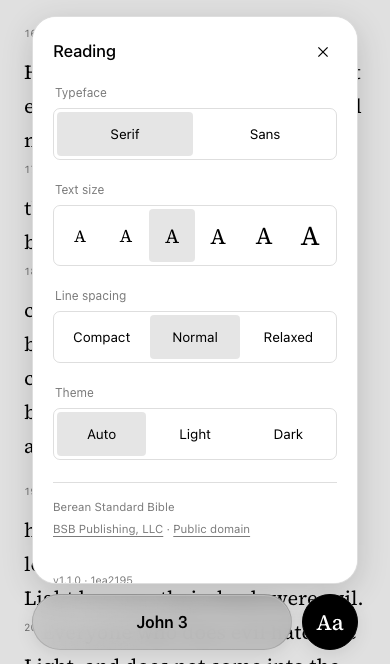
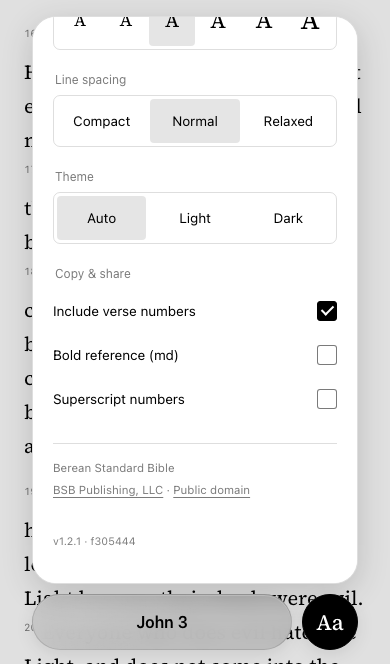
feat: add copy and share formatting settings

diff --git a/tests/e2e/export-format.spec.ts b/tests/e2e/export-format.spec.ts
@@ -1,0 +1,66 @@
+import { test, expect } from '@playwright/test'
+import { settled, verseTop } from './helpers'
+
+test('format preferences persist without moving the reader and retain disabled superscripts', async ({ page }) => {
+	await page.goto('/John/3/16?version=BSB')
+	await settled(page)
+	const top = await verseTop(page, 'jhn.3.16')
+	await page.getByRole('button', { name: 'Reader settings', exact: true }).click()
+	await expect(page.getByRole('checkbox', { name: 'Include verse numbers', exact: true })).toBeChecked()
+	await expect(page.getByRole('checkbox', { name: 'Bold reference (md)', exact: true })).not.toBeChecked()
+	await expect(page.getByRole('checkbox', { name: 'Superscript numbers', exact: true })).not.toBeChecked()
+	await page.getByRole('checkbox', { name: 'Bold reference (md)', exact: true }).check()
+	await page.getByRole('checkbox', { name: 'Superscript numbers', exact: true }).check()
+	await page.getByRole('checkbox', { name: 'Include verse numbers', exact: true }).uncheck()
+	await expect(page.getByRole('checkbox', { name: 'Superscript numbers', exact: true })).toBeDisabled()
+	await expect(page.getByRole('checkbox', { name: 'Superscript numbers', exact: true })).toBeChecked()
+	await page.getByRole('button', { name: 'Close settings' }).click()
+	expect(await verseTop(page, 'jhn.3.16')).toBeCloseTo(top, 0)
+	await page.reload()
+	await settled(page)
+	await page.getByRole('button', { name: 'Reader settings', exact: true }).click()
+	await expect(page.getByRole('checkbox', { name: 'Include verse numbers', exact: true })).not.toBeChecked()
+	await expect(page.getByRole('checkbox', { name: 'Bold reference (md)', exact: true })).toBeChecked()
+	await expect(page.getByRole('checkbox', { name: 'Superscript numbers', exact: true })).toBeDisabled()
+	await expect(page.getByRole('checkbox', { name: 'Superscript numbers', exact: true })).toBeChecked()
+	await page.getByRole('checkbox', { name: 'Include verse numbers', exact: true }).check()
+	await expect(page.getByRole('checkbox', { name: 'Superscript numbers', exact: true })).toBeEnabled()
+	await expect(page.getByRole('checkbox', { name: 'Superscript numbers', exact: true })).toBeChecked()
+})
+
+for (const action of ['Copy', 'keyboard', 'native share', 'unavailable share', 'failed share'] as const) {
+	for (const includeVerseNumbers of [true, false]) {
+		test(`${action} uses formatting with verse numbers ${includeVerseNumbers ? 'on' : 'off'}`, async ({ page }) => {
+			await page.addInitScript(({ action, includeVerseNumbers }) => {
+				localStorage.setItem('bible-settings', JSON.stringify({ includeVerseNumbers, boldReference: true, superscriptNumbers: true }))
+				const state = window as unknown as { exported?: string; shared?: string }
+				Object.defineProperty(navigator, 'clipboard', { configurable: true, value: { writeText: async (text: string) => { state.exported = text } } })
+				Object.defineProperty(navigator, 'share', { configurable: true, value: action === 'unavailable share' ? undefined : async (data: ShareData) => {
+					state.shared = data.text
+					if (action === 'failed share') throw new DOMException('Share failed', 'NotAllowedError')
+					state.exported = data.text
+				} })
+			}, { action, includeVerseNumbers })
+			await page.goto('/John/3/16?version=BSB')
+			await settled(page)
+			for (const verse of [18, 16]) await page.locator(`[data-verse="jhn.3.${verse}"]`).first().click()
+			if (action === 'keyboard') await page.keyboard.press('Control+c')
+			else await page.getByRole('button', { name: action === 'Copy' ? 'Copy' : 'Share', exact: true }).click()
+			await expect(page.locator('.copy-confirmation')).toHaveText(action === 'native share' ? 'Shared' : 'Copied')
+			await expect(page.locator('.selected')).toHaveCount(0)
+			const state = await page.evaluate(() => {
+				const { exported, shared } = window as unknown as { exported: string; shared?: string }
+				return { exported, shared }
+			})
+			expect(state.exported).toMatch(/^For God so loved/)
+			expect(state.exported).toContain(' **John 3:16, 18 BSB**')
+			expect(state.exported.includes('¹⁸ Whoever believes')).toBe(includeVerseNumbers)
+			expect(state.exported).not.toContain('18 Whoever believes')
+			if (action.includes('share')) {
+				expect(state.exported.split('\n')).toHaveLength(2)
+				expect(state.exported.split('\n')[1]).toBe(new URL('/John/3/16,18?version=BSB', page.url()).href)
+				if (action === 'failed share') expect(state.exported).toBe(state.shared)
+			} else expect(state.exported).not.toContain('\n')
+		})
+	}
+}

diff --git a/tests/unit/semantics.test.ts b/tests/unit/semantics.test.ts
@@ -3,7 +3,7 @@ import { describe, expect, it, vi } from 'vitest'
 import { mount } from '@vue/test-utils'
 import { normalizeChapter, inlineText } from '../../src/lib/normalize'
 import { copyText } from '../../src/lib/clipboard'
-import { parseReference } from '../../src/lib/references'
+import { formatReferences, parseReference } from '../../src/lib/references'
 import ScriptureChapter from '../../src/components/ScriptureChapter.vue'
 import ReaderSettings from '../../src/components/ReaderSettings.vue'
 import type { BibleBook } from '../../src/lib/types'
@@ -112,6 +112,66 @@ describe('plain-text Scripture copying', () => {
 		const text = copyText(parseReference('Gen1:26-28')!.verses, [c])
 		expect(text.match(/27 /g)).toHaveLength(1)
 		expect(text).not.toContain('Cited in Matthew')
+	})
+})
+describe('Copy and Share formatting', () => {
+	const formats = [true, false].flatMap((includeVerseNumbers) =>
+		[true, false].flatMap((boldReference) =>
+			[true, false].map((superscriptNumbers) => ({ includeVerseNumbers, boldReference, superscriptNumbers })),
+		),
+	)
+	it.each(formats)('formats skipped verses with %j', (format) => {
+		const refs = parseReference('John3:19,16,18')!.verses
+		const text = copyText(refs, [chapter], format)
+		expect(text).toMatch(/^For God so loved/)
+		const prefix = format.superscriptNumbers ? '¹⁸' : '18'
+		expect(text.includes(`${prefix} Whoever believes`)).toBe(format.includeVerseNumbers)
+		expect(text).not.toContain('16 For God')
+		expect(text).not.toContain('¹⁶ For God')
+		expect(text.endsWith(format.boldReference ? '**John 3:16, 18–19 BSB**' : 'John 3:16, 18–19 BSB')).toBe(true)
+		expect(text.includes('**')).toBe(format.boldReference)
+		if (!format.includeVerseNumbers) expect(text.slice(0, text.indexOf('John 3:'))).not.toMatch(/[0-9⁰¹²³⁴⁵⁶⁷⁸⁹]/)
+		expect(text).not.toMatch(/\n|God’s Love for the World/)
+	})
+	it.each([
+		'John3:16', 'Genesis1:26-28', 'Psalm23:1-6',
+		'John3:36-4:2', 'John21:25;Acts1:1-2', 'Psalm119:99-101',
+	])('preserves semantic prose and references for %s', (reference) => {
+		const refs = parseReference(reference)!.verses
+		const chapters = [...new Map(refs.map((r) => [`${r.book}.${r.chapter}`, book(r.book).chapters[r.chapter - 1]!])).values()]
+		const unnumbered = copyText(refs, chapters, { includeVerseNumbers: false, boldReference: false, superscriptNumbers: false })
+		const text = copyText(refs, chapters, { includeVerseNumbers: true, boldReference: true, superscriptNumbers: true })
+		const label = `${formatReferences(refs)} BSB`
+		const prose = text.slice(0, -` **${label}**`.length)
+		expect(prose.replace(/[⁰¹²³⁴⁵⁶⁷⁸⁹]+ /g, '')).toBe(unnumbered.slice(0, -` ${label}`.length))
+		expect(prose.match(/[⁰¹²³⁴⁵⁶⁷⁸⁹]+ /g) ?? []).toHaveLength(refs.length - 1)
+		expect(text).toContain(`**${label}**`)
+		expect(text).not.toMatch(/\n|Cited in Matthew|A Psalm of David/)
+		if (reference === 'Psalm119:99-101') {
+			expect(text).toContain('¹⁰⁰ ')
+			expect(text).toContain('¹⁰¹ ')
+		}
+	})
+	it('updates accessible formatting checkboxes and retains disabled superscripts', async () => {
+		vi.stubGlobal('__APP_VERSION__', '0.1.0')
+		vi.stubGlobal('__BUILD_SHA__', 'test')
+		const w = mount(ReaderSettings, { props: { modelValue: { ...defaults } } })
+		for (const [label, key] of [
+			['Include verse numbers', 'includeVerseNumbers'],
+			['Bold reference (md)', 'boldReference'],
+			['Superscript numbers', 'superscriptNumbers'],
+		] as const) {
+			const checkbox = w.findAll('label').find((row) => row.text() === label)!.find('input')
+			await checkbox.setValue(!defaults[key])
+			expect(w.emitted('update:modelValue')!.at(-1)![0]).toEqual({ ...defaults, [key]: !defaults[key] })
+		}
+		await w.setProps({ modelValue: { ...defaults, includeVerseNumbers: false, superscriptNumbers: true } })
+		const superscript = w.findAll('label').find((row) => row.text() === 'Superscript numbers')!.find('input')
+		expect(superscript.attributes('disabled')).toBeDefined()
+		expect((superscript.element as HTMLInputElement).checked).toBe(true)
+		await w.setProps({ modelValue: { ...defaults, superscriptNumbers: true } })
+		expect(superscript.attributes('disabled')).toBeUndefined()
+		expect((superscript.element as HTMLInputElement).checked).toBe(true)
 	})
 })
 describe('semantic Scripture rendering', () => {

diff --git a/src/lib/clipboard.ts b/src/lib/clipboard.ts
@@ -1,9 +1,14 @@
 import { inlineText } from './normalize'
 import { formatReferences, ordered, verseId } from './references'
-import type { Chapter, VerseRef } from './types'
+import type { Chapter, CopyFormat, VerseRef } from './types'
 export function copyText(
 	refs: VerseRef[],
 	chapters: Chapter[],
+	format: CopyFormat = {
+		includeVerseNumbers: true,
+		boldReference: false,
+		superscriptNumbers: false,
+	},
 ): string {
 	const selection = ordered(refs)
 	const ids = new Set(selection.map(verseId))
@@ -16,8 +21,12 @@ export function copyText(
 			const body = block.fragments
 				.filter((f) => ids.has(f.id))
 				.map((f) => {
-					const prefix =
-						f.id === first || numbered.has(f.id) ? '' : `${f.id.split('.')[2]} `
+					const number = f.id.split('.')[2]!
+					const digits = format.superscriptNumbers
+						? number.replace(/\d/g, (digit) => '⁰¹²³⁴⁵⁶⁷⁸⁹'[Number(digit)]!)
+						: number
+					const prefix = !format.includeVerseNumbers || f.id === first || numbered.has(f.id)
+						? '' : `${digits} `
 					numbered.add(f.id)
 					return prefix + inlineText(f.nodes).trim()
 				})
@@ -27,10 +36,6 @@ export function copyText(
 		}
 	}
 
-	return (
-		parts.join(' ').replace(/\s+/g, ' ') +
-		' ' +
-		formatReferences(selection) +
-		' BSB'
-	)
+	const reference = `${formatReferences(selection)} BSB`
+	return `${parts.join(' ').replace(/\s+/g, ' ')} ${format.boldReference ? `**${reference}**` : reference}`
 }

diff --git a/src/lib/persistence.ts b/src/lib/persistence.ts
@@ -1,6 +1,6 @@
 import { fromId, verseId } from './references'
-import type { Anchor } from './types'
-export interface Settings {
+import type { Anchor, CopyFormat } from './types'
+export interface Settings extends CopyFormat {
 	font: 'serif' | 'sans'
 	size: number
 	spacing: 'compact' | 'normal' | 'relaxed'
@@ -11,6 +11,9 @@ export const defaults: Settings = {
 	size: 20,
 	spacing: 'normal',
 	theme: 'auto',
+	includeVerseNumbers: true,
+	boldReference: false,
+	superscriptNumbers: false,
 }
 export function readJson(key: string): unknown {
 	try {
@@ -29,6 +32,12 @@ export function writeJson(key: string, value: unknown) {
 export function readSettings(): Settings {
 	const value = readJson('bible-settings') as Partial<Settings> | null
 	return {
+		includeVerseNumbers: typeof value?.includeVerseNumbers === 'boolean'
+			? value.includeVerseNumbers : defaults.includeVerseNumbers,
+		boldReference: typeof value?.boldReference === 'boolean'
+			? value.boldReference : defaults.boldReference,
+		superscriptNumbers: typeof value?.superscriptNumbers === 'boolean'
+			? value.superscriptNumbers : defaults.superscriptNumbers,
 		font: value?.font === 'sans' ? 'sans' : 'serif',
 		size: [17, 18, 20, 22, 24, 27].includes(value?.size ?? 0)
 			? value!.size!

diff --git a/src/components/ReaderSettings.vue b/src/components/ReaderSettings.vue
@@ -89,6 +89,34 @@ async function updateVersion() {
 				</button>
 			</div>
 		</fieldset>
+		<fieldset class="export-settings">
+			<legend>Copy &amp; share</legend>
+			<label>
+				<span>Include verse numbers</span>
+				<input
+					type="checkbox"
+					:checked="modelValue.includeVerseNumbers"
+					@change="update('includeVerseNumbers', ($event.target as HTMLInputElement).checked)"
+				/>
+			</label>
+			<label>
+				<span>Bold reference (md)</span>
+				<input
+					type="checkbox"
+					:checked="modelValue.boldReference"
+					@change="update('boldReference', ($event.target as HTMLInputElement).checked)"
+				/>
+			</label>
+			<label :class="{ 'export-disabled': !modelValue.includeVerseNumbers }">
+				<span>Superscript numbers</span>
+				<input
+					type="checkbox"
+					:checked="modelValue.superscriptNumbers"
+					:disabled="!modelValue.includeVerseNumbers"
+					@change="update('superscriptNumbers', ($event.target as HTMLInputElement).checked)"
+				/>
+			</label>
+		</fieldset>
 		<div class="attribution">
 			<p>{{ translation.name }}</p>
 			<a :href="translation.attributionUrl" target="_blank" rel="noreferrer">{{

diff --git a/tests/unit/storage.test.ts b/tests/unit/storage.test.ts
@@ -85,6 +85,7 @@ describe('small defensive local persistence', () => {
 			theme: 'dark',
 		})
 		expect(readSettings()).toEqual({
+			...defaults,
 			size: 24,
 			font: 'sans',
 			spacing: 'normal',
@@ -94,6 +95,16 @@ describe('small defensive local persistence', () => {
 	it.each(['compact', 'normal', 'relaxed'] as const)('preserves saved %s spacing', (spacing) => {
 		writeJson('bible-settings', { spacing })
 		expect(readSettings().spacing).toBe(spacing)
+	})
+	it.each(['includeVerseNumbers', 'boldReference', 'superscriptNumbers'] as const)('validates and persists %s as a boolean', (key) => {
+		for (const value of [true, false]) {
+			writeJson('bible-settings', { [key]: value })
+			expect(readSettings()[key]).toBe(value)
+		}
+		for (const value of ['true', 'false', 0, 1, null, [], {}]) {
+			writeJson('bible-settings', { [key]: value })
+			expect(readSettings()[key]).toBe(defaults[key])
+		}
 	})
 	it('validates and clamps semantic reading anchors', () => {
 		const a = {

diff --git a/src/style.css b/src/style.css
@@ -509,6 +509,44 @@ a {
 .sizes button {
 	font-family: 'Source Serif 4', Georgia, serif;
 }
+.export-settings label {
+	display: flex;
+	align-items: center;
+	justify-content: space-between;
+	gap: 12px;
+	min-height: 44px;
+	font-size: 0.85rem;
+	cursor: pointer;
+}
+.export-settings input {
+	appearance: none;
+	border: 1px solid var(--muted);
+	border-radius: 3px;
+	background: var(--background);
+	min-width: 20px;
+	width: 20px;
+	height: 20px;
+	margin: 0;
+	cursor: inherit;
+}
+.export-settings input:checked {
+	background: var(--foreground);
+	border-color: var(--foreground);
+}
+.export-settings input:checked::after {
+	content: '';
+	display: block;
+	width: 5px;
+	height: 10px;
+	margin: 1px auto 0;
+	border: solid var(--background);
+	border-width: 0 2px 2px 0;
+	transform: rotate(45deg);
+}
+.export-settings .export-disabled {
+	opacity: 0.4;
+	cursor: default;
+}
 .attribution {
 	font-size: 0.72rem;
 	line-height: 1.7;

diff --git a/scripts/screenshots.spec.ts b/scripts/screenshots.spec.ts
@@ -30,5 +30,6 @@ test('capture README screenshots', async ({ page }, testInfo) => {
 	await jump(page, 'John 3:16')
 	await page.getByRole('button', { name: 'Reader settings', exact: true }).click()
 	await expect(page.getByRole('dialog', { name: 'Reader settings' })).toBeVisible()
+	await page.getByRole('checkbox', { name: 'Superscript numbers', exact: true }).scrollIntoViewIfNeeded()
 	await capture('settings')
 })

diff --git a/tests/e2e/visual.spec.ts b/tests/e2e/visual.spec.ts
@@ -34,4 +34,6 @@ test('canonical dialog visual states', async ({ page }) => {
 		.getByRole('button', { name: 'Reader settings', exact: true })
 		.click()
 	await expect(page).toHaveScreenshot('settings-amoled.png')
+	await page.getByRole('checkbox', { name: 'Superscript numbers', exact: true }).scrollIntoViewIfNeeded()
+	await expect(page).toHaveScreenshot('copy-share-settings-amoled.png')
 })

diff --git a/src/App.vue b/src/App.vue
@@ -185,7 +185,7 @@ async function selectionText() {
 	const data = await Promise.all(
 		groups.map((r) => repository.chapter(r.book, r.chapter)),
 	)
-	return { text: copyText(refs, data), refs }
+	return { text: copyText(refs, data, settings.value), refs }
 }
 async function copy(share = false) {
 	copyError.value = ''

diff --git a/src/lib/types.ts b/src/lib/types.ts
@@ -1,4 +1,9 @@
 export const FORMAT = 1
+export interface CopyFormat {
+	includeVerseNumbers: boolean
+	boldReference: boolean
+	superscriptNumbers: boolean
+}
 export interface VerseRef {
 	book: string
 	chapter: number

diff --git a/docs/PRODUCT_SPEC.md b/docs/PRODUCT_SPEC.md
@@ -44,7 +44,8 @@
 
 - A short stationary tap toggles an entire semantic verse. Noncontiguous selection persists during scrolling; clearing the final verse exits. Explicit navigation clears it.
 - Long presses, native word selection, and drags do not trigger verse selection. Selected fragments use a visible 2px dotted underline with no background fill.
-- Copy is plain text in canonical order. First selected verse has no number; subsequent verses have inline numbers once per semantic verse. Join all selected text into one paragraph, flatten poetry, exclude headings/notes, then a space and compressed reference/version on the same line.
+- Copy exports text in canonical order. First selected verse has no number; subsequent verses have inline numbers once per semantic verse. Join all selected text into one paragraph, flatten poetry, exclude headings/notes, then a space and compressed reference/version on the same line.
+- Shared Copy/Share formatting preferences default to including inline verse numbers, with bold reference and superscript numbers off. The first selected verse is always unnumbered, including single-verse selections. Disabling verse numbers omits all inline number prefixes. Superscript numbers uses Unicode digits only for those prefixes; it is disabled while verse numbers are off and retains its preference. Bold reference (md) wraps the complete trailing reference and BSB in `**…**`, leaving Scripture and the share URL outside. These options apply equally to Copy, Ctrl+C/Cmd+C, native Share, and share fallback copying. No destination detection or app-specific formatting.
 - Successful Copy (including Ctrl+C/Cmd+C) clears all selected verse fragments, restores the normal bottom bar without moving the reader, and shows a separate brief “Copied” status above it with a light green background and dark green text in both themes. Failed copying preserves selection for retry.
 - Desktop selection shows a small Ctrl+C hint (⌘C on Mac) just below the Copy pill. Touch/mobile layouts hide the hint.
 - Share includes complete selected Scripture, the reference/version at the end of the same line, and a selection deep link on its own next line. The same complete text payload is passed to Web Share or copied when sharing is unavailable or fails. Successful sharing or fallback copying clears selection and restores the normal bottom bar without moving the reader, showing a separate brief green “Shared” or “Copied” status. Cancellation or failed fallback copying preserves selection; a cancelled share does not copy.
@@ -54,7 +55,7 @@
 
 Reading settings open in a compact floating modal 10px above the reference/Aa pills, with a short entrance from the Aa side. Both bottom pills remain visible. Aa shows a selected state and toggles the modal closed on another tap; it remains part of modal keyboard navigation. The modal scrolls within the available height on short screens and respects reduced motion.
 
-Serif/Sans, discrete text sizes, Compact/Normal/Relaxed spacing, Auto/Light/Dark theme, attribution, and build information. Translation controls and the extra fetch(bible) source-credit line do not appear in Reading settings. Light is exact white/black; AMOLED is exact black/white on Scripture and solid reader surfaces. The floating glass controls and transient green Copy/Share confirmation are exceptions. Settings persist locally. No About screen or install banner.
+Serif/Sans, discrete text sizes, Compact/Normal/Relaxed spacing, Auto/Light/Dark theme, a Copy & share section with Include verse numbers, Bold reference (md), and Superscript numbers checkboxes, attribution, and build information. Translation controls and the extra fetch(bible) source-credit line do not appear in Reading settings. Light is exact white/black; AMOLED is exact black/white on Scripture and solid reader surfaces. The floating glass controls and transient green Copy/Share confirmation are exceptions. Settings persist locally. No About screen or install banner.
 
 Browser/PWA chrome requests black in both reader themes. The maskable app icon keeps its artwork well inside the central safe circle with generous padding and an opaque background.
 
